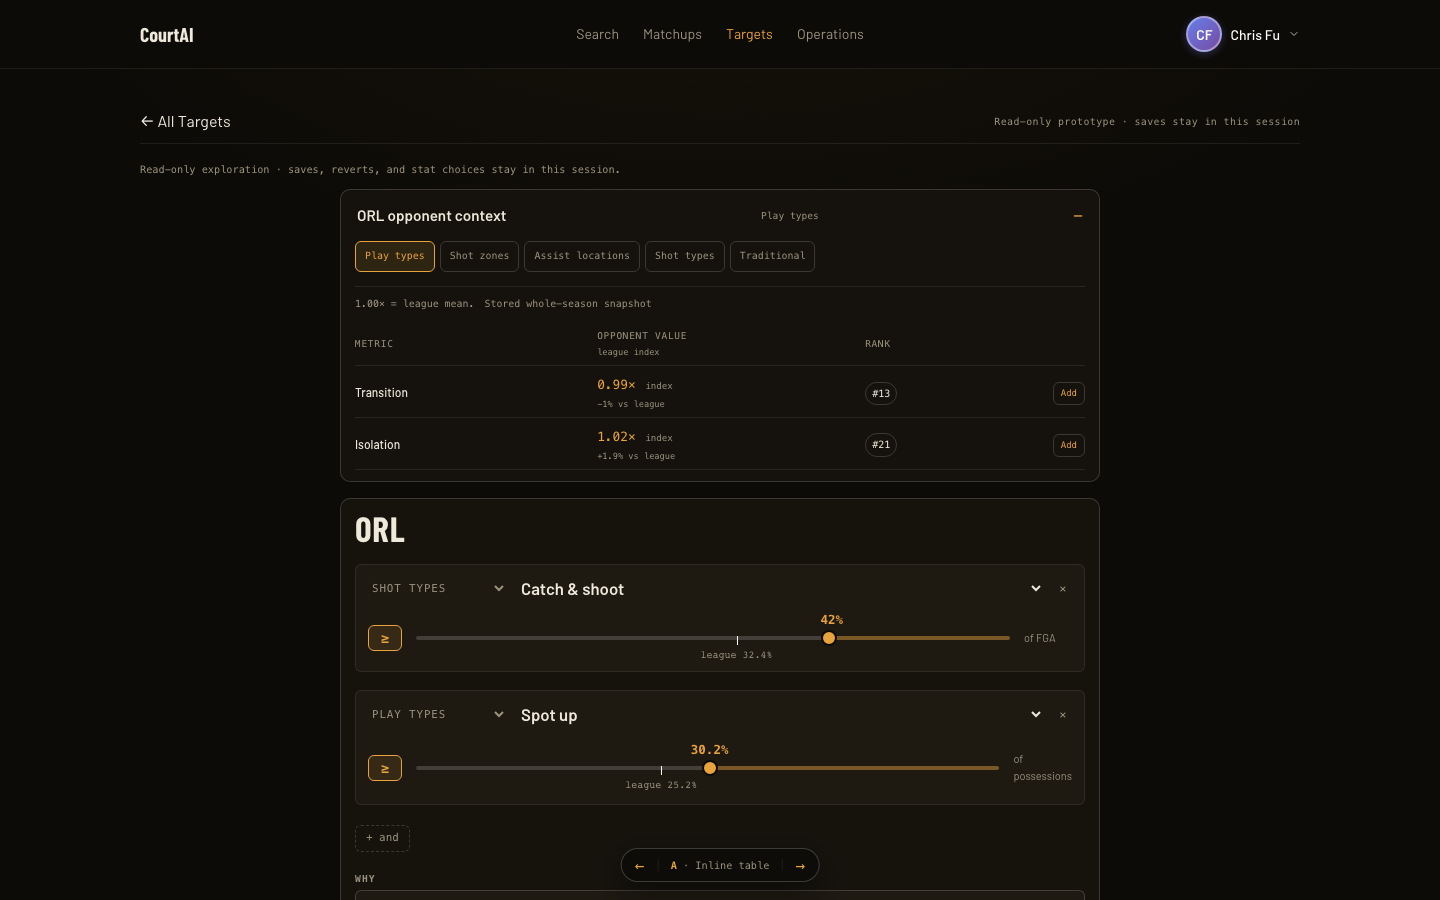
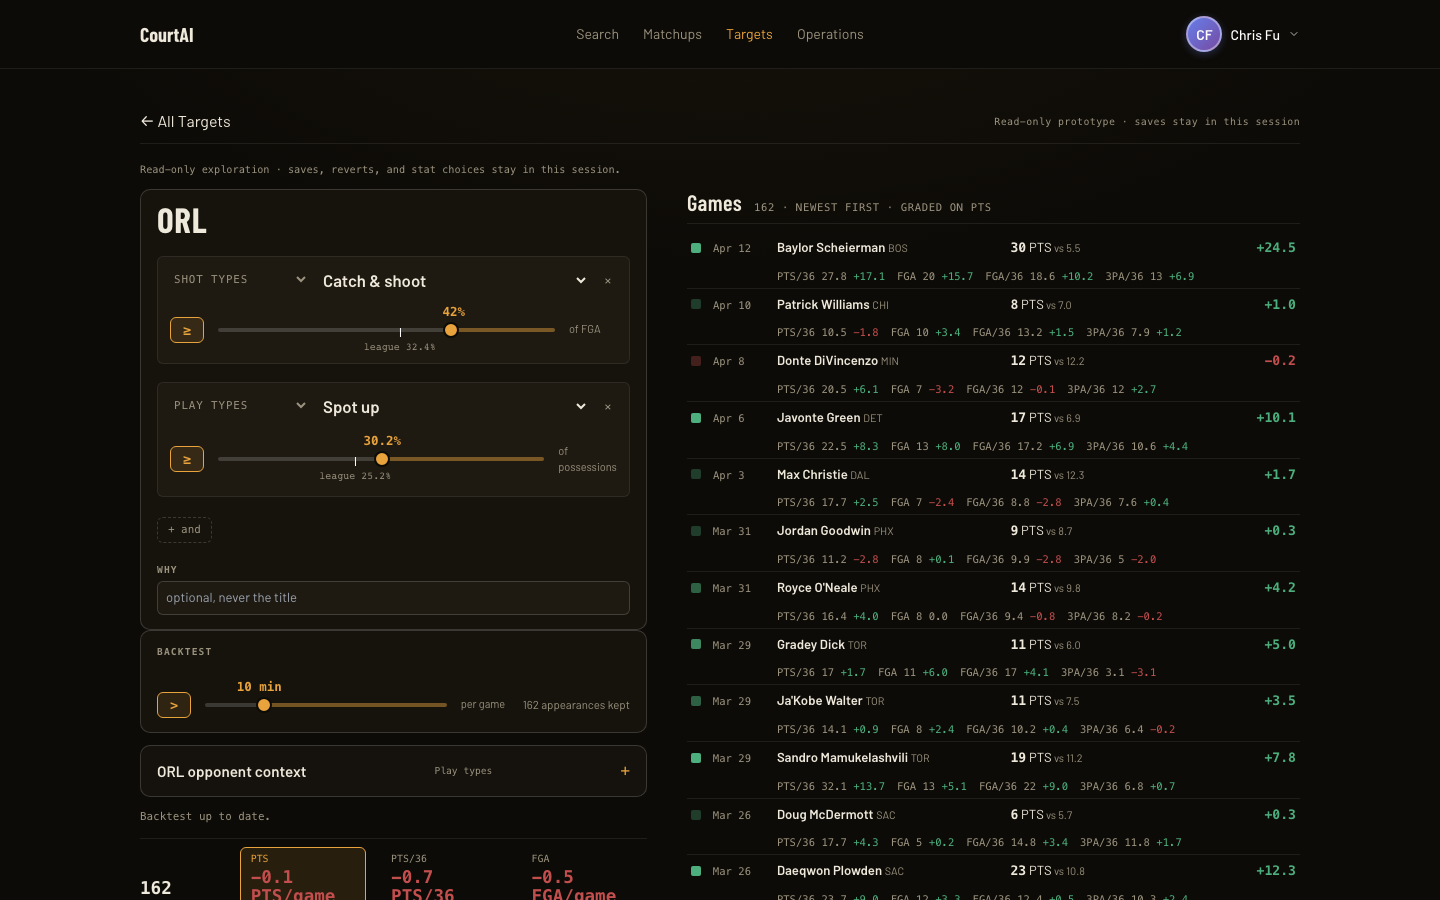
Restore edit backtest beside collapsible opponent context

diff --git a/src/targets/TargetContextPrototype.js b/src/targets/TargetContextPrototype.js
@@ -156,11 +156,12 @@ function TargetContextLayouts({
   preferences,
   onPreferencesChange,
   immediateInitialPreview = false,
+  workbench = false,
 }) {
   const read = useTeamContextRead();
   const onTeamChange = useDraftOpponentContext(read, draft, onChange, lockOpponent);
   const { highlightedQualifierIndex, onUse } = useQualifierFromContext(draft, onChange);
-  const [contextOpen, setContextOpen] = useState(true);
+  const [contextOpen, setContextOpen] = useState(!workbench);
   const form = (
     <TargetForm
       draft={draft}
@@ -182,7 +183,7 @@ function TargetContextLayouts({
       lockOpponent={lockOpponent}
       onTeamChange={onTeamChange}
       onUse={onUse}
-      collapsible={variant === 'A'}
+      collapsible={workbench || variant === 'A'}
       open={contextOpen}
       onToggle={setContextOpen}
     />
@@ -190,11 +191,17 @@ function TargetContextLayouts({
   const evidence = (
     <TargetLab
       draft={draft}
+      workbench={workbench}
       immediateInitialPreview={immediateInitialPreview}
       preferences={preferences}
       onPreferencesChange={onPreferencesChange}
     >
-      {variant === 'A' ? (
+      {workbench ? (
+        <>
+          {form}
+          {panel}
+        </>
+      ) : variant === 'A' ? (
         <div className="target-context-a-form-context">
           {panel}
           <div>{form}</div>
@@ -204,6 +211,10 @@ function TargetContextLayouts({
       )}
     </TargetLab>
   );
+
+  if (workbench) {
+    return <div className="target-workbench target-context-edit-workbench">{evidence}</div>;
+  }
 
   return (
     <div className={`target-context-layout target-context-layout-${variant.toLowerCase()}`}>
@@ -297,6 +308,7 @@ export function TargetContextEditor({
         onSubmit={onSubmit}
         onCancel={onCancel}
         immediateInitialPreview
+        workbench
         preferences={preferences}
         onPreferencesChange={onPreferencesChange}
       />

diff --git a/src/targets/TargetDetailPage.js b/src/targets/TargetDetailPage.js
@@ -7,11 +7,7 @@ import useStatPreferences from './useStatPreferences';
 import { StatSaveStatus } from './StatPicker';
 import { deleteTarget, updateTarget } from './targetsApi';
 import TargetsSignedOut from './TargetsSignedOut';
-import {
-  contextPrototypeVariantFor,
-  TargetContextEditor,
-  TargetContextPageSwitcher,
-} from './TargetContextPrototype';
+import { contextPrototypeVariantFor, TargetContextEditor } from './TargetContextPrototype';
 import { SeasonMinutesProvider, useTargets } from './useTargets';
 import '../SlatePage.css';
 import './TargetsPage.css';
@@ -177,7 +173,6 @@ function TargetDetailContent() {
             <p>It was deleted, or it belongs to another account.</p>
           </div>
         ))}
-      {prototypeVariant && target && <TargetContextPageSwitcher current={prototypeVariant} />}
     </main>
   );
 }

diff --git a/src/targets/TargetContextPrototype.css b/src/targets/TargetContextPrototype.css
@@ -93,7 +93,8 @@
   gap: 16px;
 }
 
-.target-context-form-column .target-qualifier.is-highlighted {
+.target-context-form-column .target-qualifier.is-highlighted,
+.target-context-edit-workbench .target-qualifier.is-highlighted {
   border-color: var(--ct-gold);
   box-shadow: 0 0 0 2px var(--ct-gold-soft);
 }
@@ -369,4 +370,12 @@
   .target-context-switcher-page {
     bottom: 10px;
   }
+}
+
+.target-context-edit-workbench .target-context-panel {
+  margin-bottom: 12px;
+}
+
+.target-context-edit-workbench .target-lab-left {
+  position: static;
 }

diff --git a/docs/prototypes/target-composer-context/index.html b/docs/prototypes/target-composer-context/index.html
@@ -72,7 +72,8 @@
   <header>
     <h1>Targets · team context</h1>
     <p>
-      Two layouts for creating and editing Targets. Real authenticated data; layout verdict pending.
+      Two create layouts; edit keeps the backtest beside collapsible context. Real authenticated
+      data.
     </p>
     <nav aria-label="Layout">
       <button data-variant="A" aria-pressed="true">A · Inline context</button

diff --git a/docs/prototypes/target-composer-context.md b/docs/prototypes/target-composer-context.md
@@ -13,7 +13,7 @@ Throwaway continuation on `prototype/targets-team-context`, following the list-p
 - **A — Inline table:** a compact collapsible opponent-context table above the qualifiers.
 - **B — Split context panel:** opponent stats beside the form on desktop, stacked on a phone.
 
-Both appear in the real create modal and edit route. The selected draft opponent controls the stats. Adding a stat appends a qualifier with an empty threshold; selecting an existing qualifier highlights it without changing its threshold. Saves and stat selections stay in memory.
+The create modal offers both options. The edit route now shares one collapsible context panel beneath the qualifiers, closed initially, and preserves the original game-by-game backtest column. The selected draft opponent controls the stats. Adding a stat appends a qualifier with an empty threshold; selecting an existing qualifier highlights it without changing its threshold. Saves and stat selections stay in memory.
 
 Run `npm run prototype:team-context` with the normal development Firebase/API configuration.
 
@@ -30,7 +30,7 @@ Cross-vendor review identified the Clippers display-name mismatch; opponent look
 
 ## Evidence
 
-[Create/edit, desktop/phone gallery](target-composer-context/index.html). Frontend base `da7d22f46b3952cec6f3469471f487d4d098e56f`; backend contract reference `81cefe05915b9f931eaa26937c7fae560551bc98`.
+[Create/edit, desktop/phone gallery](target-composer-context/index.html). [Restored game rows on phone](target-composer-context/edit-games-phone.png). Frontend base `da7d22f46b3952cec6f3469471f487d4d098e56f`; backend contract reference `81cefe05915b9f931eaa26937c7fae560551bc98`.
 
 - Existing unit suite: 683 passed (43 suites). Existing browser suite: 107 passed, 2 deployment-only checks skipped.
 - Real authenticated browser checks: selected existing ORL qualifier without duplication or threshold changes; appended Isolation; switched A/B with draft intact; edited and saved locally; reload restored the unchanged account target. Create flow checked LAC synchronization, switched to ORL, appended Spot up without replacing the original qualifier, switched layouts, and saved locally. Account target list remained byte-for-byte unchanged; zero account write requests.
@@ -38,3 +38,13 @@ Cross-vendor review identified the Clippers display-name mismatch; opponent look
 - Cross-vendor material finding (LAC display-name mismatch) fixed and verified live. Prototype edit title derives from the local saved draft.
 
 No production promotion and no tracker publication. QA Vite server stopped after capture.
+
+## Edit backtest correction
+
+User: “The context panel is blocking the backtest on the edit page isn't it” → “yes go ahead and fix”.
+
+Restored `TargetLab` workbench rendering on edit. Context opens inside the qualifier column; both create variants retain their layouts. The edit column scrolls normally so long qualifier lists and the backtest summary remain reachable. Removed the edit-only A/B switcher because both URLs share this layout. Verified against frontend `d120c325b8300cb22a7b6a60ff7a93b6a0509121` plus this correction in `/Users/chrisfu/.t3/worktrees/statsplus-frontend/proto-team-context`. Live authenticated ORL target 13, both variants, desktop 1440×900 and phone 390×844: context starts collapsed, expanding preserves desktop game column x/y/width, game rows and the backtest summary remain reachable, no document overflow, zero account writes. QA server stopped.
+
+Completion gate: lint, formatting, 683 unit tests, production build, and 107 browser tests passed (2 deployment-only skips). No new tests for this throwaway layout correction.
+
+Independent cross-vendor review prompted the normal-scroll correction and removal of the inert edit switcher. Internal horizontal scrolling is intentional for the narrow stats table; adding a qualifier retains the established focus behavior.
